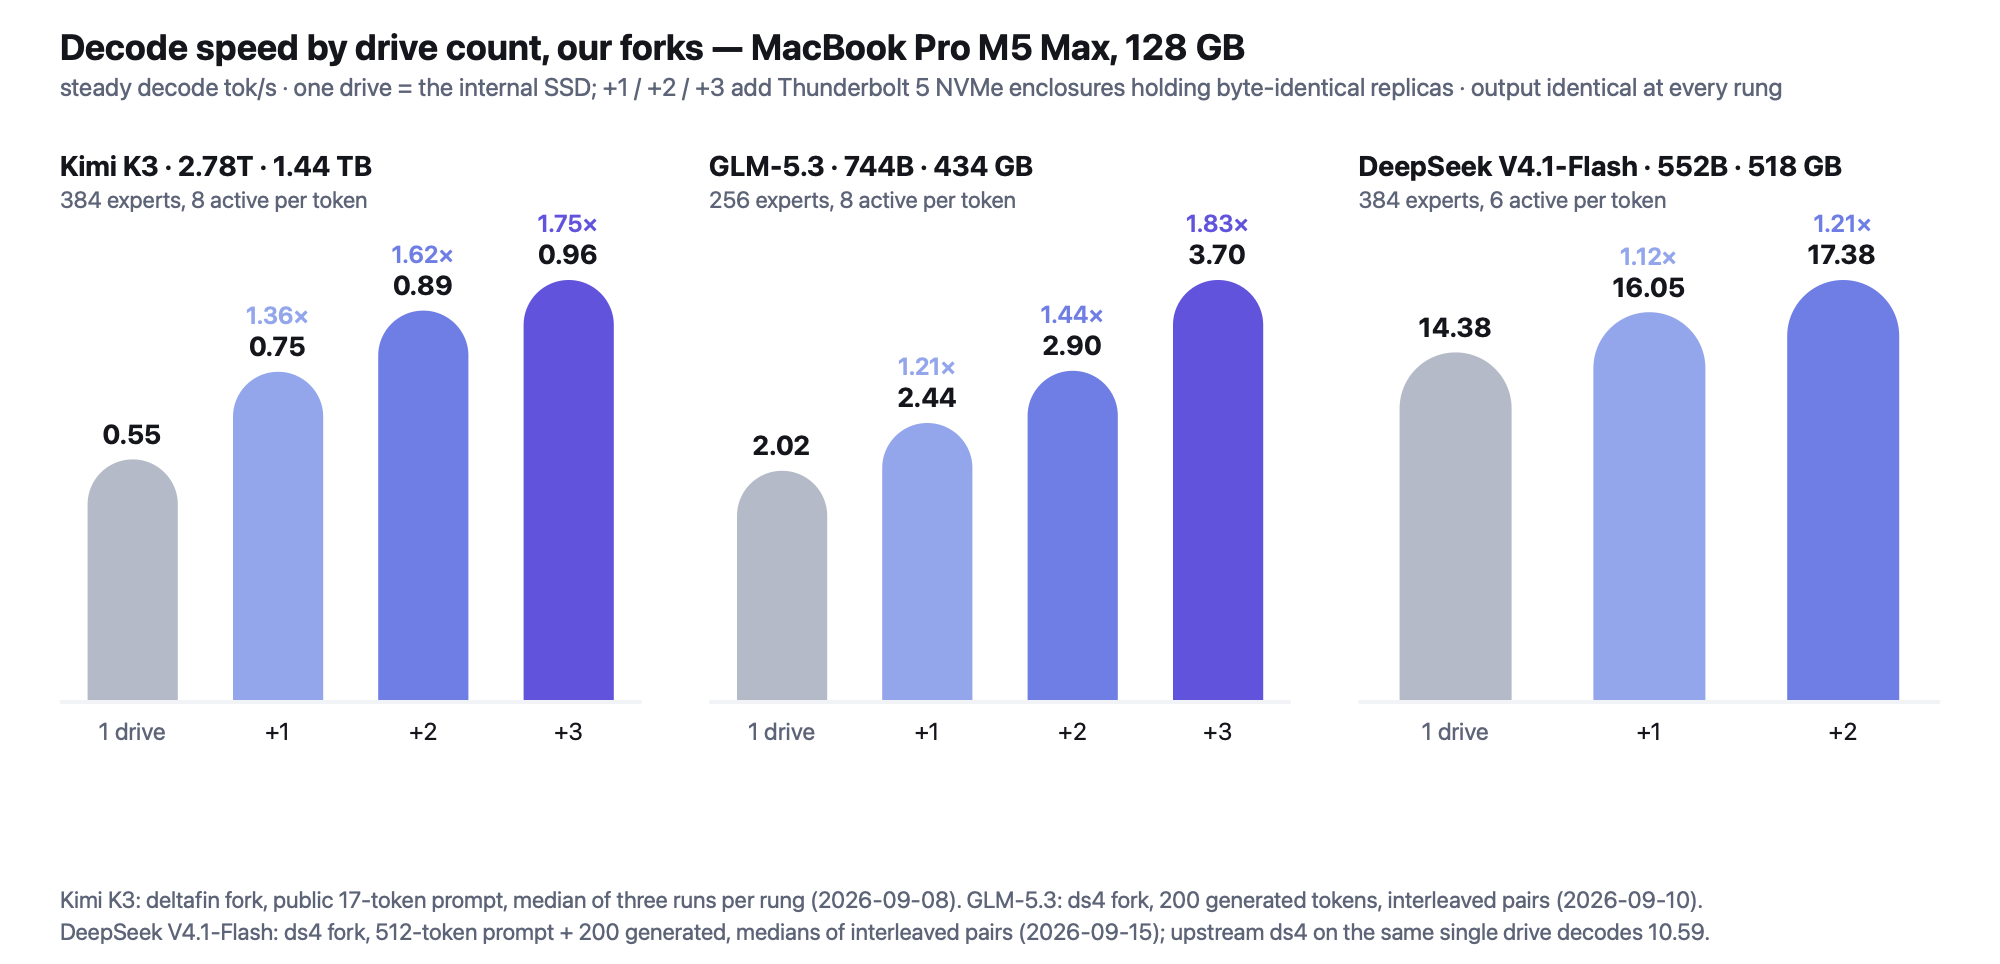
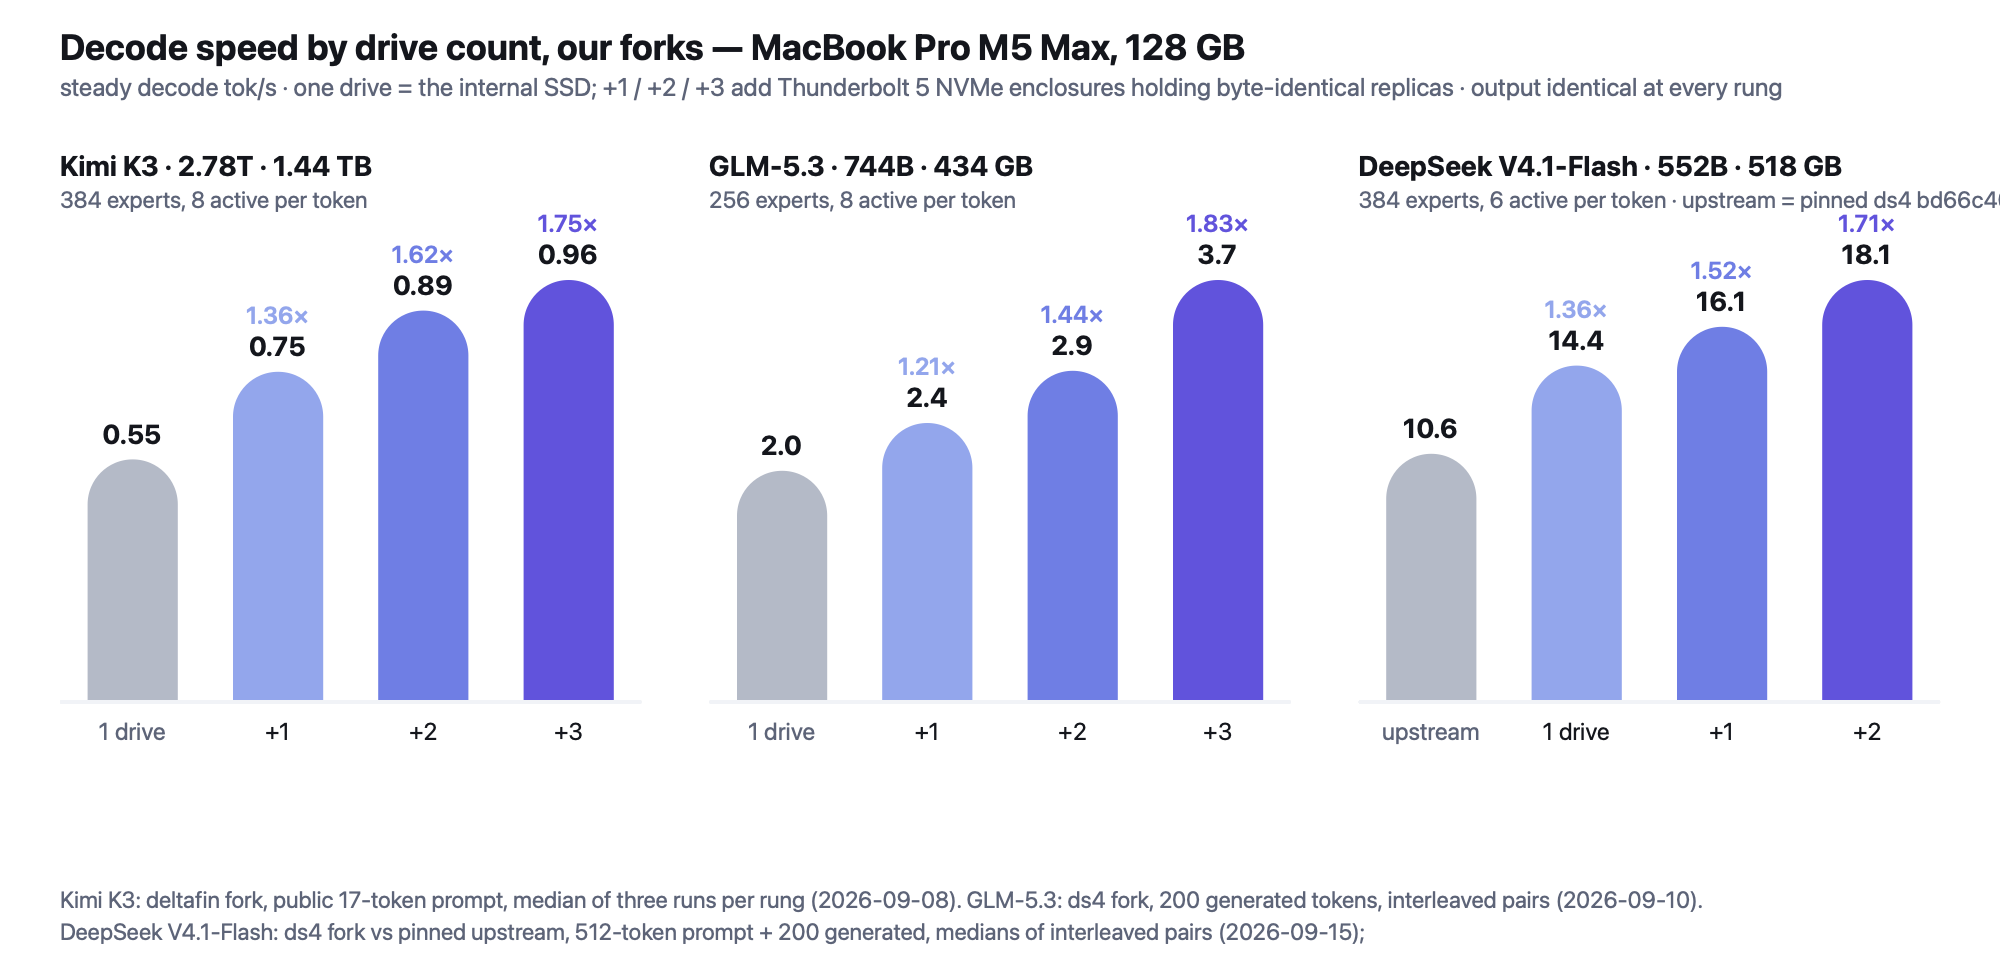
charts: DeepSeek panel with the upstream bar on the same drive and 18.06 with the keep-alive; one decimal on DeepSeek and GLM panels
Claude-Session: https://claude.ai/code/session_01GyKwdksX8gTKkahyvudEAM

diff --git a/charts/make-columns.py b/charts/make-columns.py
@@ -31,6 +31,7 @@ def chart(spec, dark=False):
            f'<text x="{pad}" y="30" font-size="18" font-weight="700" fill="{fg}">{spec["title"]}</text>',
            f'<text x="{pad}" y="48" font-size="12.5" fill="{muted}">{spec["subtitle"]}</text>']
     for pi, panel in enumerate(panels):
+        dec = int(panel.get('decimals', 2))
         x0 = pad + pi * (panel_w + gap)
         bars = panel['bars']
         n = len(bars)
@@ -58,7 +59,7 @@ def chart(spec, dark=False):
             out.append(f'<rect x="{x:.1f}" y="{y:.1f}" width="{bw:.1f}" height="{h + bw / 2:.1f}" rx="{bw / 2:.1f}" fill="{colour}"/>')
             out.append(f'<rect x="{x - 1:.1f}" y="{base_y + 1}" width="{bw + 2:.1f}" height="{bw / 2 + 2:.1f}" fill="{bg}"/>')
             out.append(f'<rect x="{x0}" y="{base_y}" width="{panel_w:.1f}" height="2" rx="1" fill="{track}"/>')
-            out.append(f'<text x="{cx:.1f}" y="{y - 8:.1f}" font-size="13.5" font-weight="700" text-anchor="middle" fill="{fg}">{v:.2f}</text>')
+            out.append(f'<text x="{cx:.1f}" y="{y - 8:.1f}" font-size="13.5" font-weight="700" text-anchor="middle" fill="{fg}">{v:.{dec}f}</text>')
             if not is_base and ref:
                 out.append(f'<text x="{cx:.1f}" y="{y - 24:.1f}" font-size="12" font-weight="600" text-anchor="middle" fill="{colour}">{v / ref:.2f}×</text>')
             out.append(f'<text x="{cx:.1f}" y="{base_y + 20}" font-size="12" text-anchor="middle" fill="{muted if is_base else fg}">{b["label"]}</text>')

diff --git a/charts/make-bars.py b/charts/make-bars.py
@@ -53,7 +53,7 @@ def chart(spec, dark=False):
                        f'fill="{muted if is_base else fg}">{b["label"]}</text>')
             out.append(f'<rect x="{pad_l}" y="{by}" width="{track_w:.1f}" height="24" rx="{radius}" fill="{track}"/>')
             out.append(f'<rect x="{pad_l}" y="{by}" width="{max(bw, 2 * radius, 8):.1f}" height="24" rx="{radius}" fill="{colour}"/>')
-            out.append(f'<text x="{pad_l + bw + 10:.1f}" y="{by + 16.5}" font-size="13" font-weight="700" fill="{fg}">{v:.2f}</text>')
+            out.append(f'<text x="{pad_l + bw + 10:.1f}" y="{by + 16.5}" font-size="13" font-weight="700" fill="{fg}">{v:.{dec}f}</text>')
             if not is_base and ref:
                 out.append(f'<text x="{pad_l + bw + 59:.1f}" y="{by + 16.5}" font-size="12.5" font-weight="600" '
                            f'fill="{colour}">{v / ref:.2f}×</text>')
